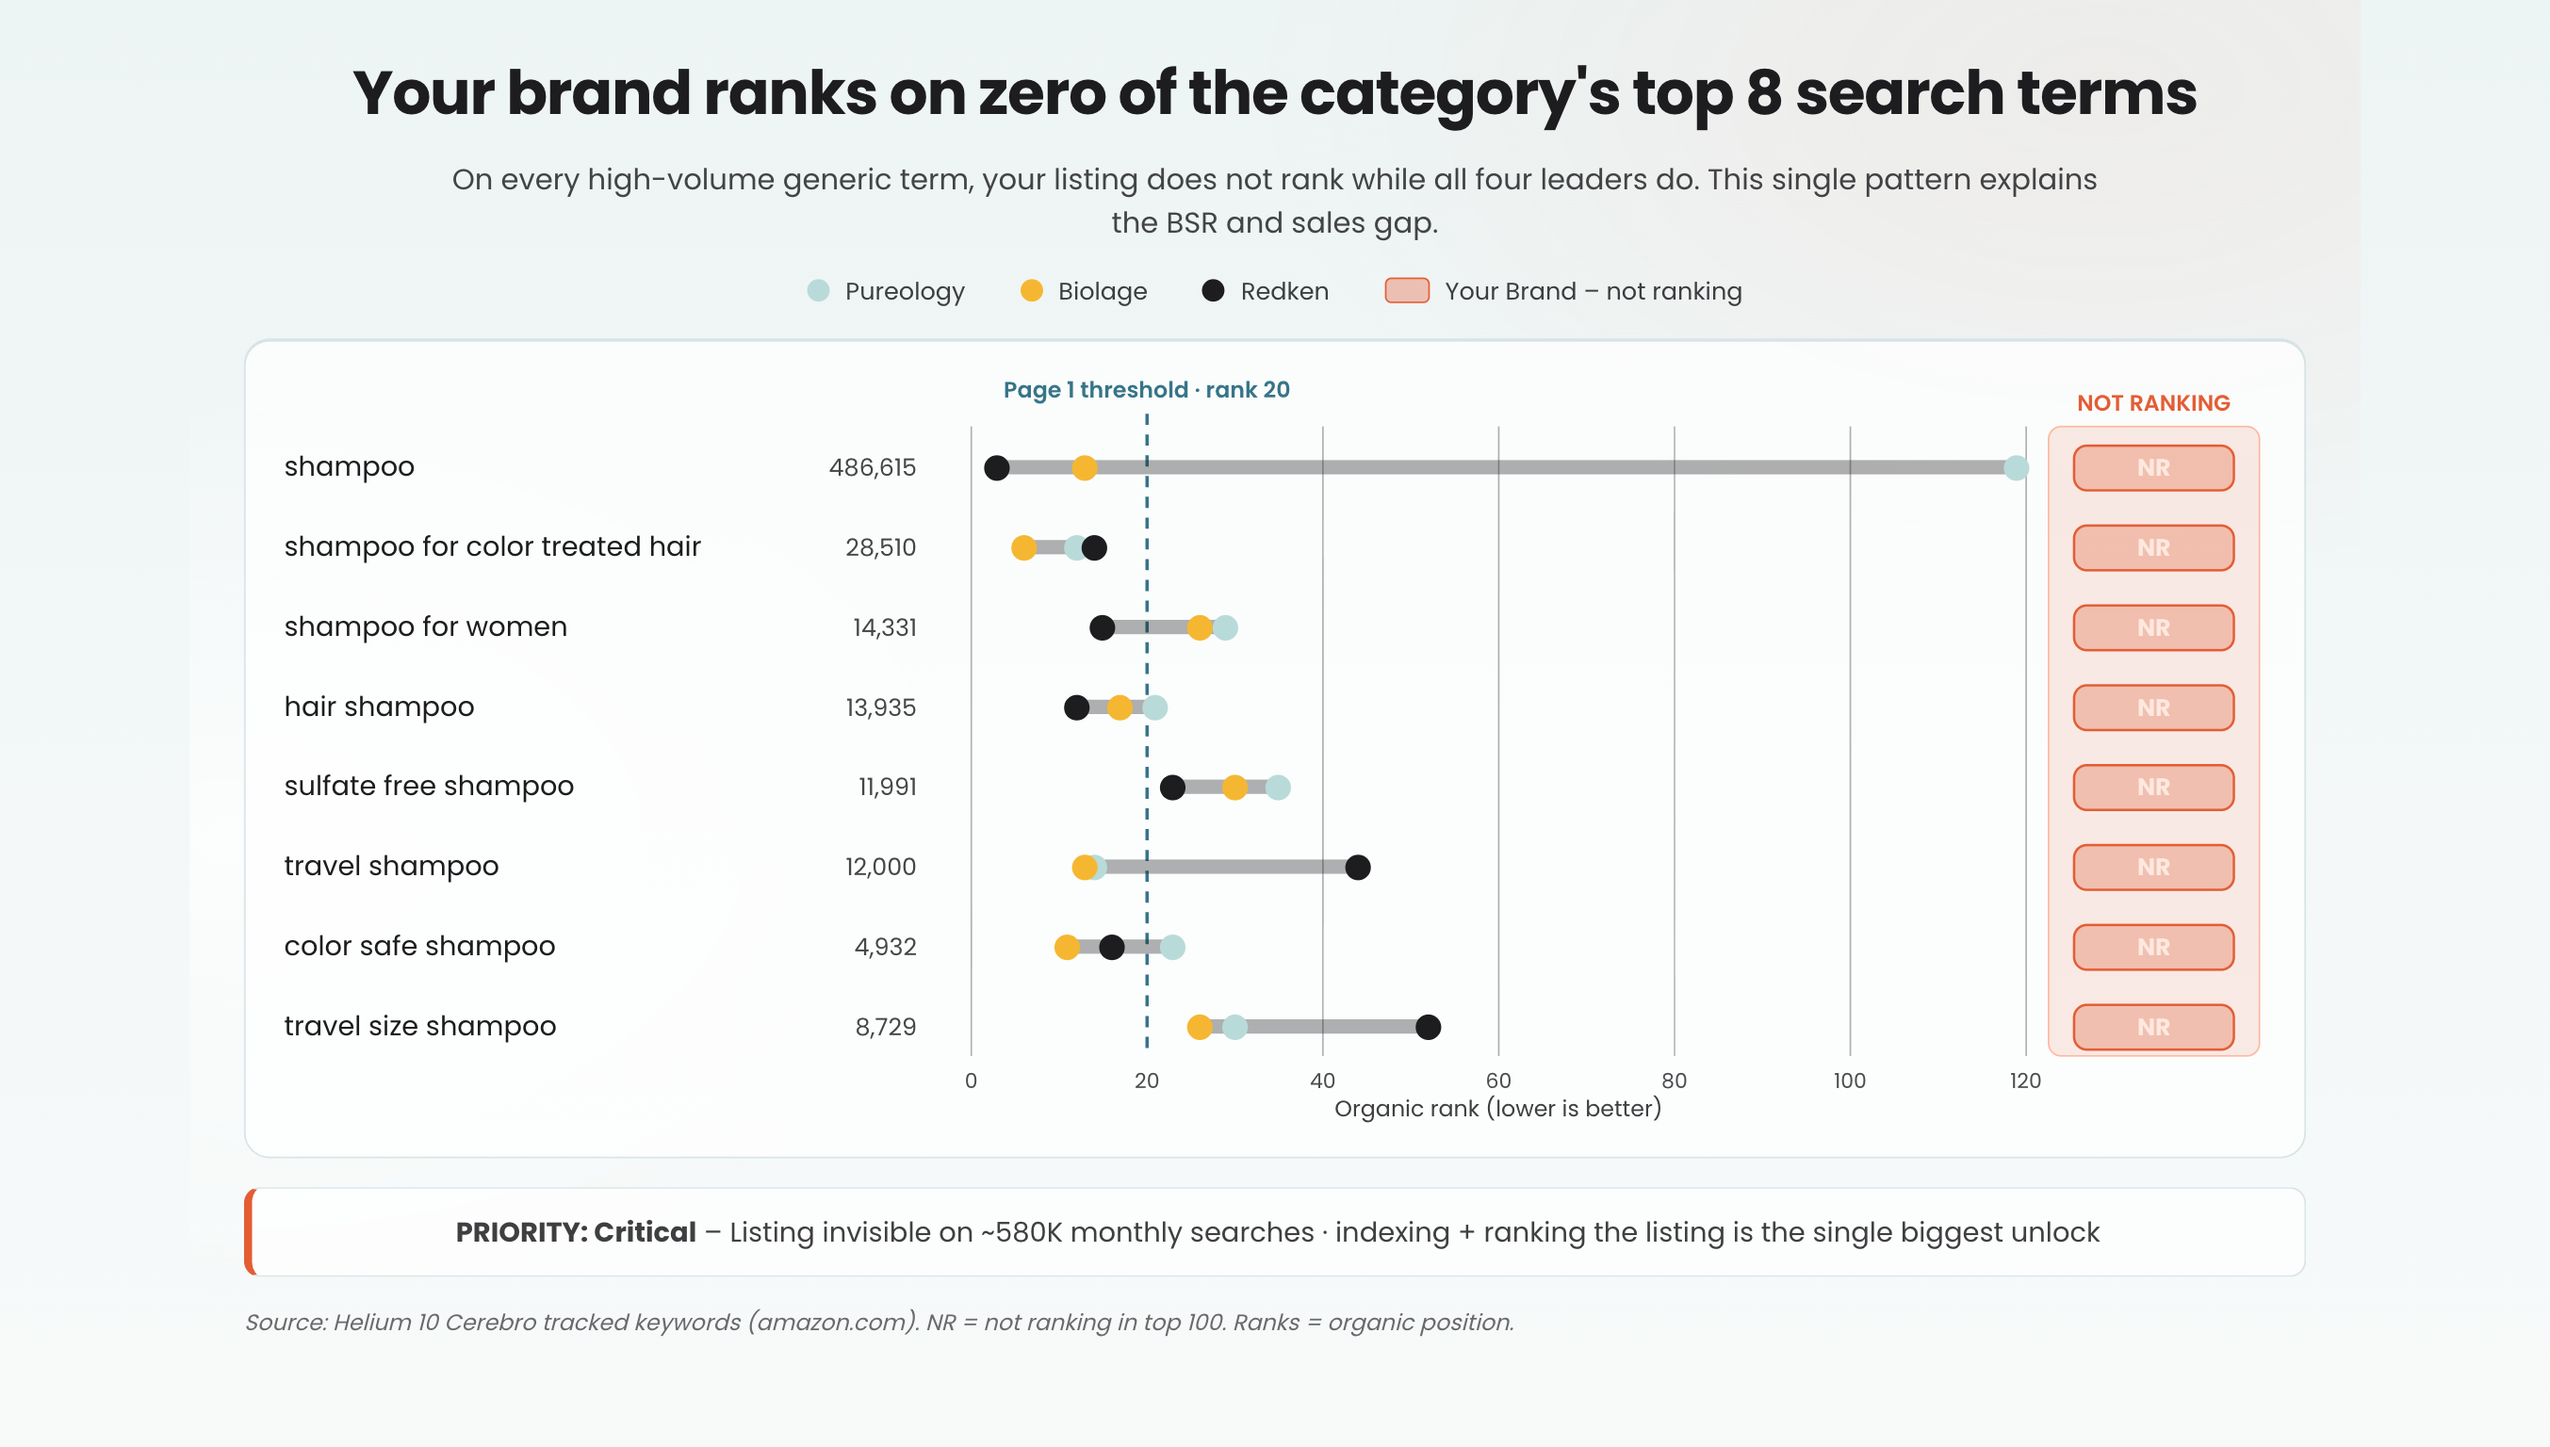
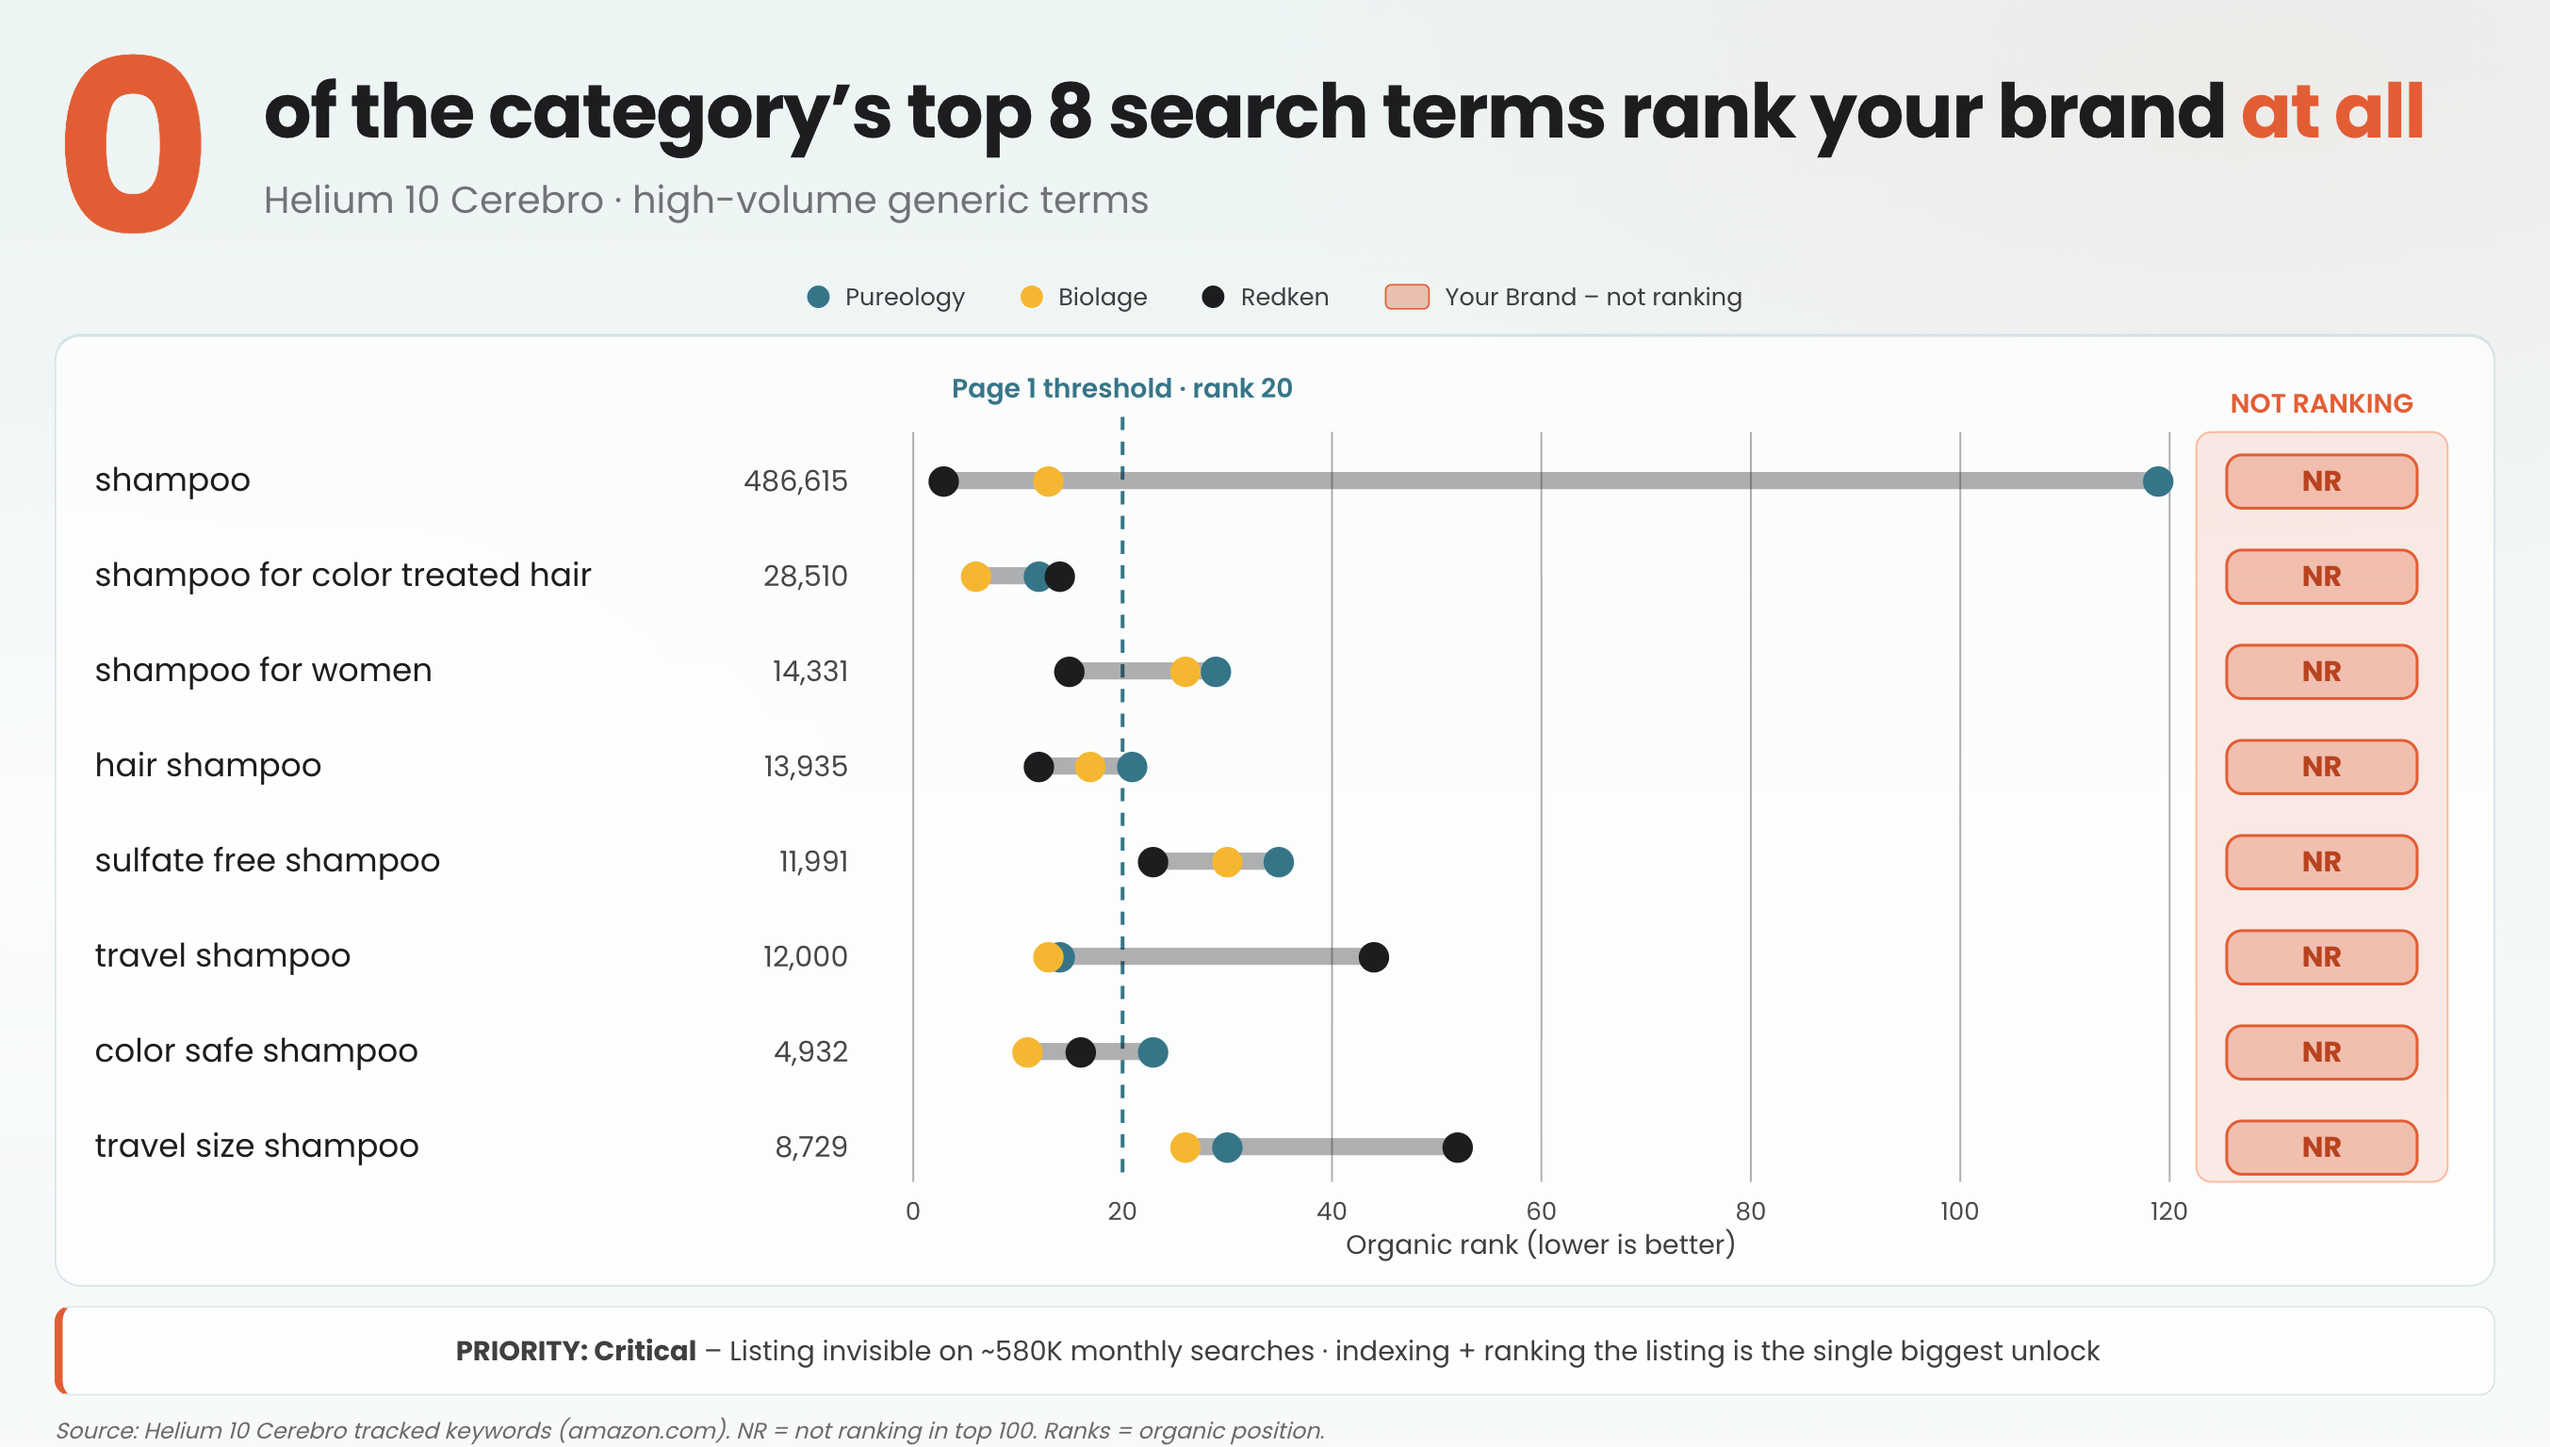
Update Section 4 images with finalized mist design, add image borders
Swaps in the finalized "mist" design images (big-stat headline
treatment: 0, <20%, 69x, 50%) for 4 of the 5 audit pillars, and
strengthens the image border so each visual stands out clearly
against the section's light background.

diff --git a/amazon-ads-analysis.html b/amazon-ads-analysis.html
@@ -66,7 +66,7 @@ nav { background: var(--white); border-bottom: 1px solid var(--grey-lt); positio
 .award-card p { color: rgba(255,255,255,0.7); font-size: 13px; line-height: 1.65; }
 
 /* AUDIT VISUALS */
-.audit-image { width: 100%; height: auto; display: block; margin: 0 auto; border-radius: 12px; border: 1px solid var(--grey-lt); box-shadow: 0 8px 24px rgba(15,31,61,0.16); }
+.audit-image { width: 100%; height: auto; display: block; margin: 0 auto; border-radius: 12px; border: 2px solid #D5DBE2; box-shadow: 0 8px 24px rgba(15,31,61,0.16); }
 
 .hero-card { background: var(--white); border-radius: 14px; box-shadow: 0 8px 40px rgba(15,31,61,0.12); overflow: hidden; position: sticky; top: 72px; margin-top: -8px; margin-bottom: 40px; }
 .hero-card-top { background: var(--teal); padding: 16px 24px; }
@@ -356,7 +356,7 @@ footer { background: var(--navy); padding: 52px 0 24px; border-top: 3px solid va
           </ul>
         </div>
         <div class="audit-row-visual">
-          <img class="audit-image" src="images/market-share-organic-ranking.png" alt="Your brand ranks on zero of the category's top 8 search terms, while all four leaders rank on page 1">
+          <img class="audit-image" src="images/market-share-organic-ranking.png" alt="0 of the category's top 8 search terms rank your brand at all, while all four leaders rank on page 1">
         </div>
       </div>
 
@@ -392,7 +392,7 @@ footer { background: var(--navy); padding: 52px 0 24px; border-top: 3px solid va
           </ul>
         </div>
         <div class="audit-row-visual">
-          <img class="audit-image" src="images/missed-opportunity-donut.png" alt="Your best-performing sales channel drives less than 1 in 5 sales — 82.3% of sales come from less efficient channels">
+          <img class="audit-image" src="images/missed-opportunity-donut.png" alt="Less than 20% of sales come from your best-performing channel — Brand-ASIN cross-sell returns 8.4x ROAS but is barely used">
         </div>
       </div>
 
@@ -411,7 +411,7 @@ footer { background: var(--navy); padding: 52px 0 24px; border-top: 3px solid va
           </ul>
         </div>
         <div class="audit-row-visual">
-          <img class="audit-image" src="images/profitability-products.png" alt="One of your products returns $69 for every $1 you spend on it — ROI by ASIN across Shampoos and Conditioners">
+          <img class="audit-image" src="images/profitability-products.png" alt="69x return on ad spend from one product — ROI by ASIN across Shampoos and Conditioners">
         </div>
       </div>
 
@@ -428,7 +428,7 @@ footer { background: var(--navy); padding: 52px 0 24px; border-top: 3px solid va
           </ul>
         </div>
         <div class="audit-row-visual">
-          <img class="audit-image" src="images/future-growth-projection.png" alt="More aggressive investing grows revenue 50% more over the same 6 months — sustainable plan +22.6%, aggressive plan +34.2%">
+          <img class="audit-image" src="images/future-growth-projection.png" alt="50% more revenue from aggressive investing over the same 6 months — sustainable plan +22.6%, aggressive plan +34.2%">
         </div>
       </div>
 
